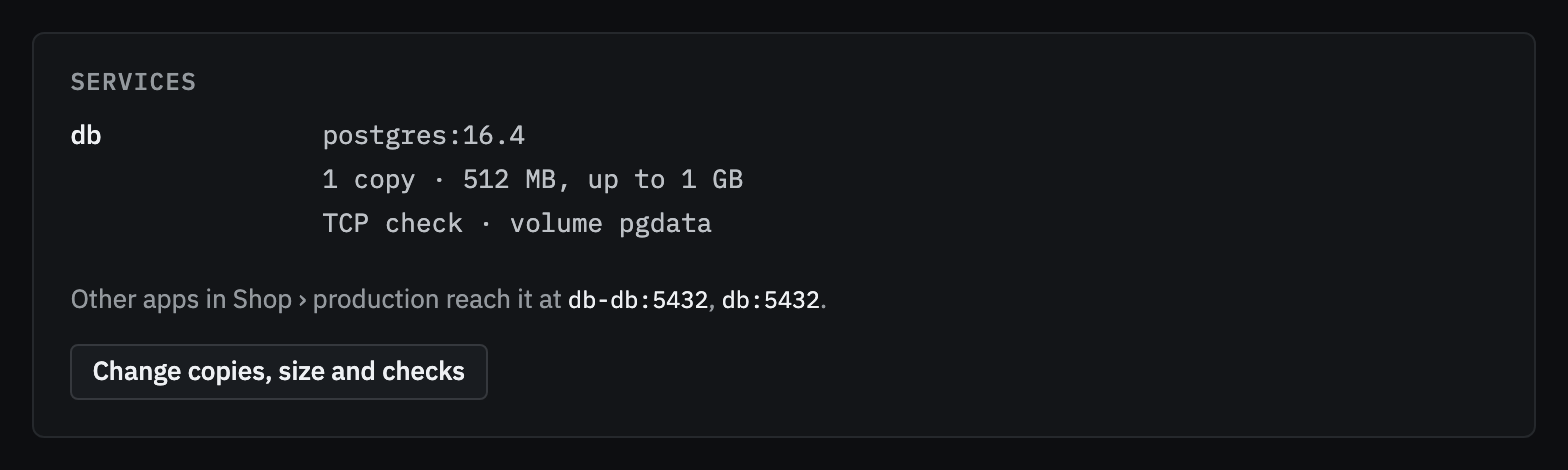
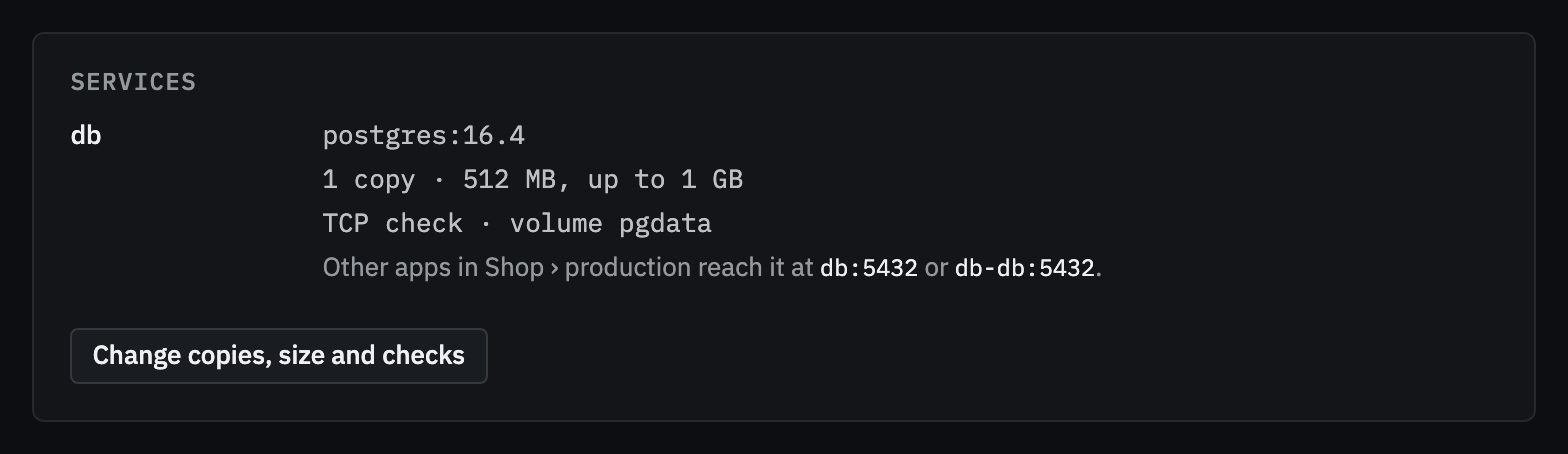
docs: Connect apps follows the approved wording and placement
The page quotes the address sentences as the console draws them now ("reach it at db:5432 or db-db:5432", the shared-name and no-name-left sentences) and says where they sit: each service's row on Overview, below the copies on the Running tab, under the installed notice's title. app-configure-address, app-running and app-configure are retaken from alta/peaceful-castor-bcvs at 6f20c4a, merged in.

diff --git a/docs/guide/configure/connect-apps.md b/docs/guide/configure/connect-apps.md
@@ -21,8 +21,8 @@ dashes, at most 63 characters, so a name is always a valid host name.
 
 | App in `shop › production` | Services with a port | Other apps reach it at |
 | --- | --- | --- |
-| `web` | `web` on 8080 | `web-web`, `web` |
-| `db` | `db` on 5432 | `db-db`, `db` |
+| `web` | `web` on 8080 | `web`, `web-web` |
+| `db` | `db` on 5432 | `db`, `db-db` |
 | `blog` (a Compose file) | `web` on 8080, `cache` on 6379 | `blog-web`, `blog-cache` |
 
 `blog` has no bare `blog` name because two of its services have ports: `blog` could mean either. Its own services
@@ -37,11 +37,11 @@ A name carries no port: you write the port yourself, as the container listens on
    service has the port `5432` (the **Container port** field of **New app › Image**, or `expose: ["5432"]` in a
    Compose file). Leaving **Health check path** empty makes a TCP check, which suits a database.
 2. Open the `db` app and choose **Configure**. On **Overview**, the **Services** panel says where it answers:
-   **Other apps in Shop › production reach it at** `db-db:5432`, `db:5432`.
+   "Other apps in Shop › production reach it at `db:5432` or `db-db:5432`."
 
 <picture>
   <source media="(prefers-color-scheme: dark)" srcset="../../images/app-configure-address-dark.png">
-  <img alt="The Services panel of the db app's Configure Overview: the service db with its image, copies, memory and TCP check, and the line &quot;Other apps in Shop › production reach it at db-db:5432, db:5432&quot;." src="../../images/app-configure-address-light.png" width="620">
+  <img alt="The Services panel of the db app's Configure Overview: the service db with its image, copies, memory and TCP check, and the line &quot;Other apps in Shop › production reach it at db:5432 or db-db:5432.&quot;." src="../../images/app-configure-address-light.png" width="620">
 </picture>
 
 3. Open the `api` app, **Configure › Variables & secrets**, and set a secret `DATABASE_URL` to
@@ -53,16 +53,15 @@ server, `api` needs nothing: see "The names follow the copy" below.
 
 ## Where to read an app's address
 
-- **Configure › Overview**, in the **Services** panel.
-- The **Running** tab, above the table of copies. It is drawn only while the app has copies.
-- The **Deployments** tab you land on after installing a template, under **Installed from the … template**.
+- **Configure › Overview**, in the **Services** panel, in each service's row.
+- The **Running** tab, below the table of copies. It is drawn only while the app has copies.
+- The **Deployments** tab you land on after installing a template, under the title of the *Installed from the … template* notice.
 - The API: `getApp` (`GET /v1/apps/{id}`) answers `addresses`, one entry per service with a port, with its `ports`,
   the `names` other apps use, its `ownName` and any `conflicts`. The MCP tool `get_app` returns the same answer.
 
-When a service has more than one name, or the app has more than one service, the line is repeated for each service,
-and an app with several services adds **Its own services reach it at** `web:8080`. The console shows the first port
-of the service next to each name. With a single project and environment, **Other apps in** says **this
-environment** instead of `Shop › production`.
+The names are listed shortest first, each with the first port of the service. An app with several services names
+the service on each block and adds "The other services of this app reach it at `web:8080`." With a single project
+and environment, the sentence says "this environment" instead of `Shop › production`.
 
 Installed from the PostgreSQL template, the app is called `postgres` and has two services with a port, Postgres
 and Adminer. Other apps reach the database at `postgres-postgres:5432`, not at `postgres`.
@@ -72,11 +71,13 @@ and Adminer. Other apps reach the database at `postgres-postgres:5432`, not at `
 - **Another environment.** `staging` apps do not resolve `production` names, and the other way round. A preview
   (`pr-<n>`) is an environment too: it reaches the apps deployed into it. See
   [Projects and environments](../operate/projects.md).
-- **A name two apps claim.** It answers to neither. Both apps' pages say so and name the other:
-  "`db-admin` answers to nothing: app `db-admin` claims it too." (This is the page of an app `db` with a service
-  `admin`, and another app called `db-admin`: both claim `db-admin`.) If every name of a service collides, the page says
-  "No other app can reach it by name until one of the apps below is renamed." An app's own service names always win
-  inside that app. The claim ends when one of the apps or services goes away or is named differently.
+- **A name two apps claim.** It reaches neither. Both apps' pages say so and name the other:
+  "`db-admin` reaches neither app: it is also the name of the app db-admin." (This is the page of an app `db` with a
+  service `admin`, beside another app called `db-admin`: both claim `db-admin`. With three or more claimants it says
+  "reaches none of them".) When no name of a service is left, the page says "Other apps in Shop › production can't
+  reach it by name: `hollo-web` is also the name of the app hollo-web. Rename one of the two apps to free it." An app's
+  own service names always win inside that app. The claim ends when one of the apps or services goes away or is named
+  differently.
 - **A service with several copies.** Its name leads to every running copy: the hosts file has one line per copy.
   Which one a connection reaches is up to the client's resolver. During a deploy, canaries are left out until they
   are promoted, so the name keeps pointing at the version that was live.

diff --git a/docs/guide/console.md b/docs/guide/console.md
@@ -90,7 +90,7 @@ Click an app to open it. Its header shows its name, status, addresses and a summ
 
 <picture>
   <source media="(prefers-color-scheme: dark)" srcset="../images/app-running-dark.png">
-  <img alt="The Running tab of the web app: a line saying other apps in Shop › production reach it at web-web:8080 and web:8080, above its table of two copies." src="../images/app-running-light.png" width="760">
+  <img alt="The Running tab of the web app: a line saying other apps in Shop › production reach it at web:8080 or web-web:8080, under its table of two copies." src="../images/app-running-light.png" width="760">
 </picture>
 
 Configure has a side menu with six sections, each its own page with its own form, and each save is its own deploy:

diff --git a/docs/guide/first-app.md b/docs/guide/first-app.md
@@ -70,7 +70,7 @@ Click the **Running** tab. The **Copies** table lists each copy with its **Statu
 
 <picture>
   <source media="(prefers-color-scheme: dark)" srcset="../images/app-running-dark.png">
-  <img alt="The Running tab of an app: its address next to the name, a line with the names other apps reach it at, and a table with copies." src="../images/app-running-light.png" width="760">
+  <img alt="The Running tab of an app: its address next to the name, a table with copies, and under it a line with the names other apps reach it at." src="../images/app-running-light.png" width="760">
 </picture>
 
 The app's address is next to its name at the top of the page. Open it: whoami prints the request it
